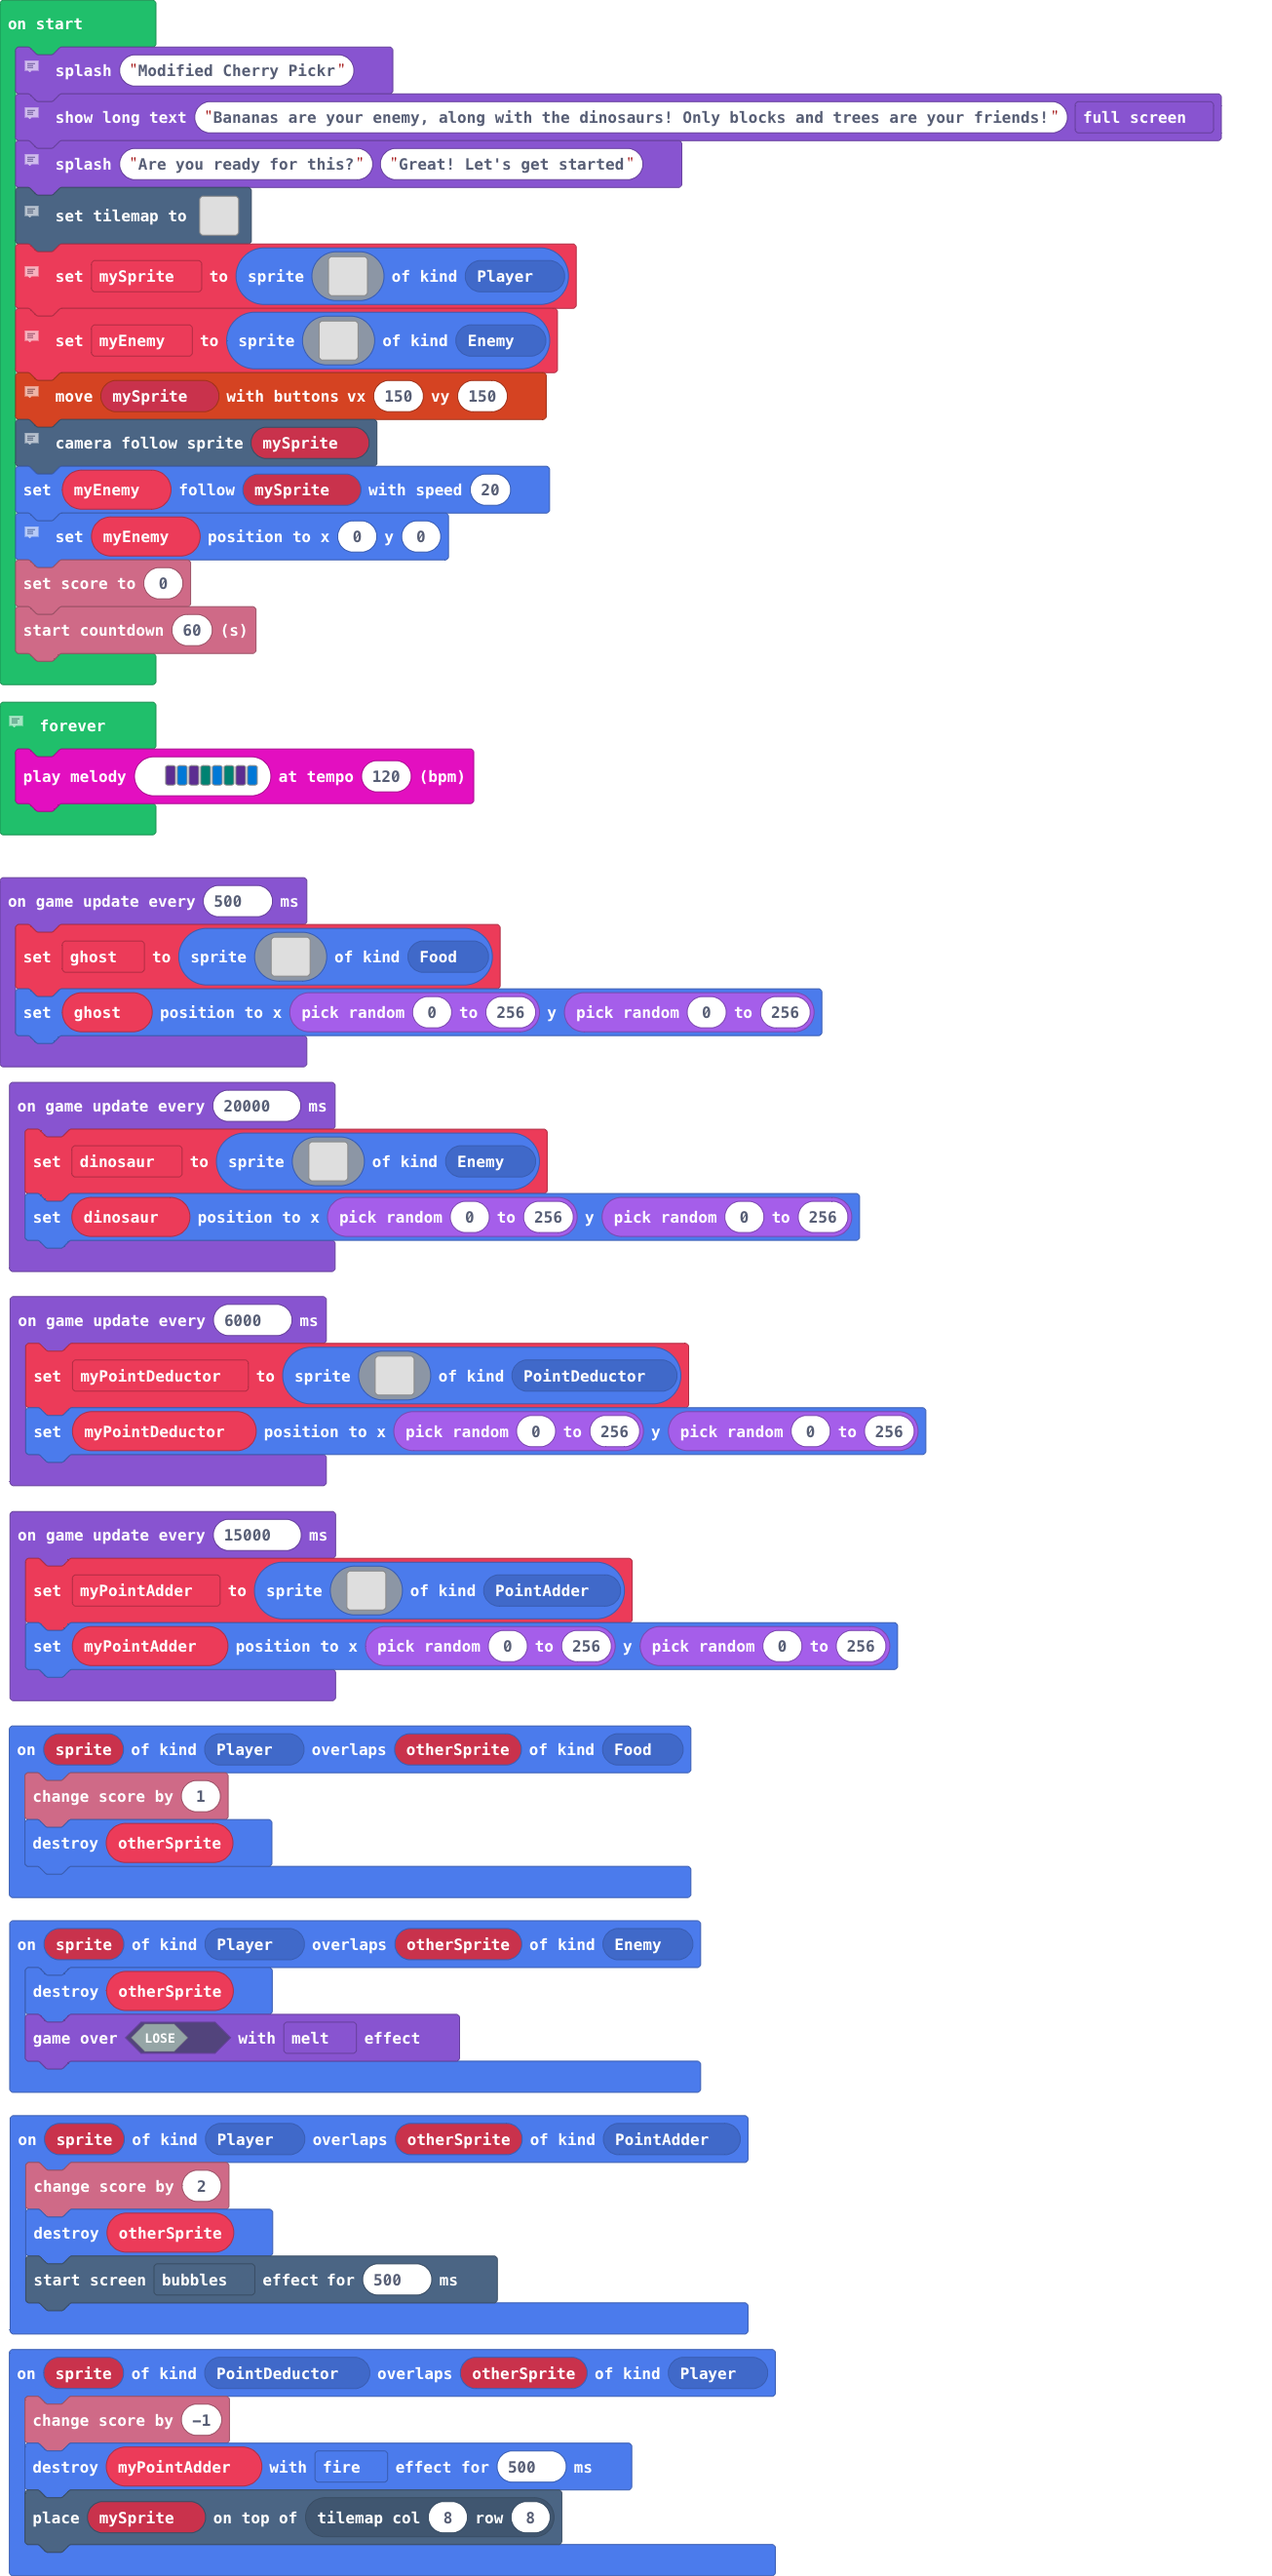
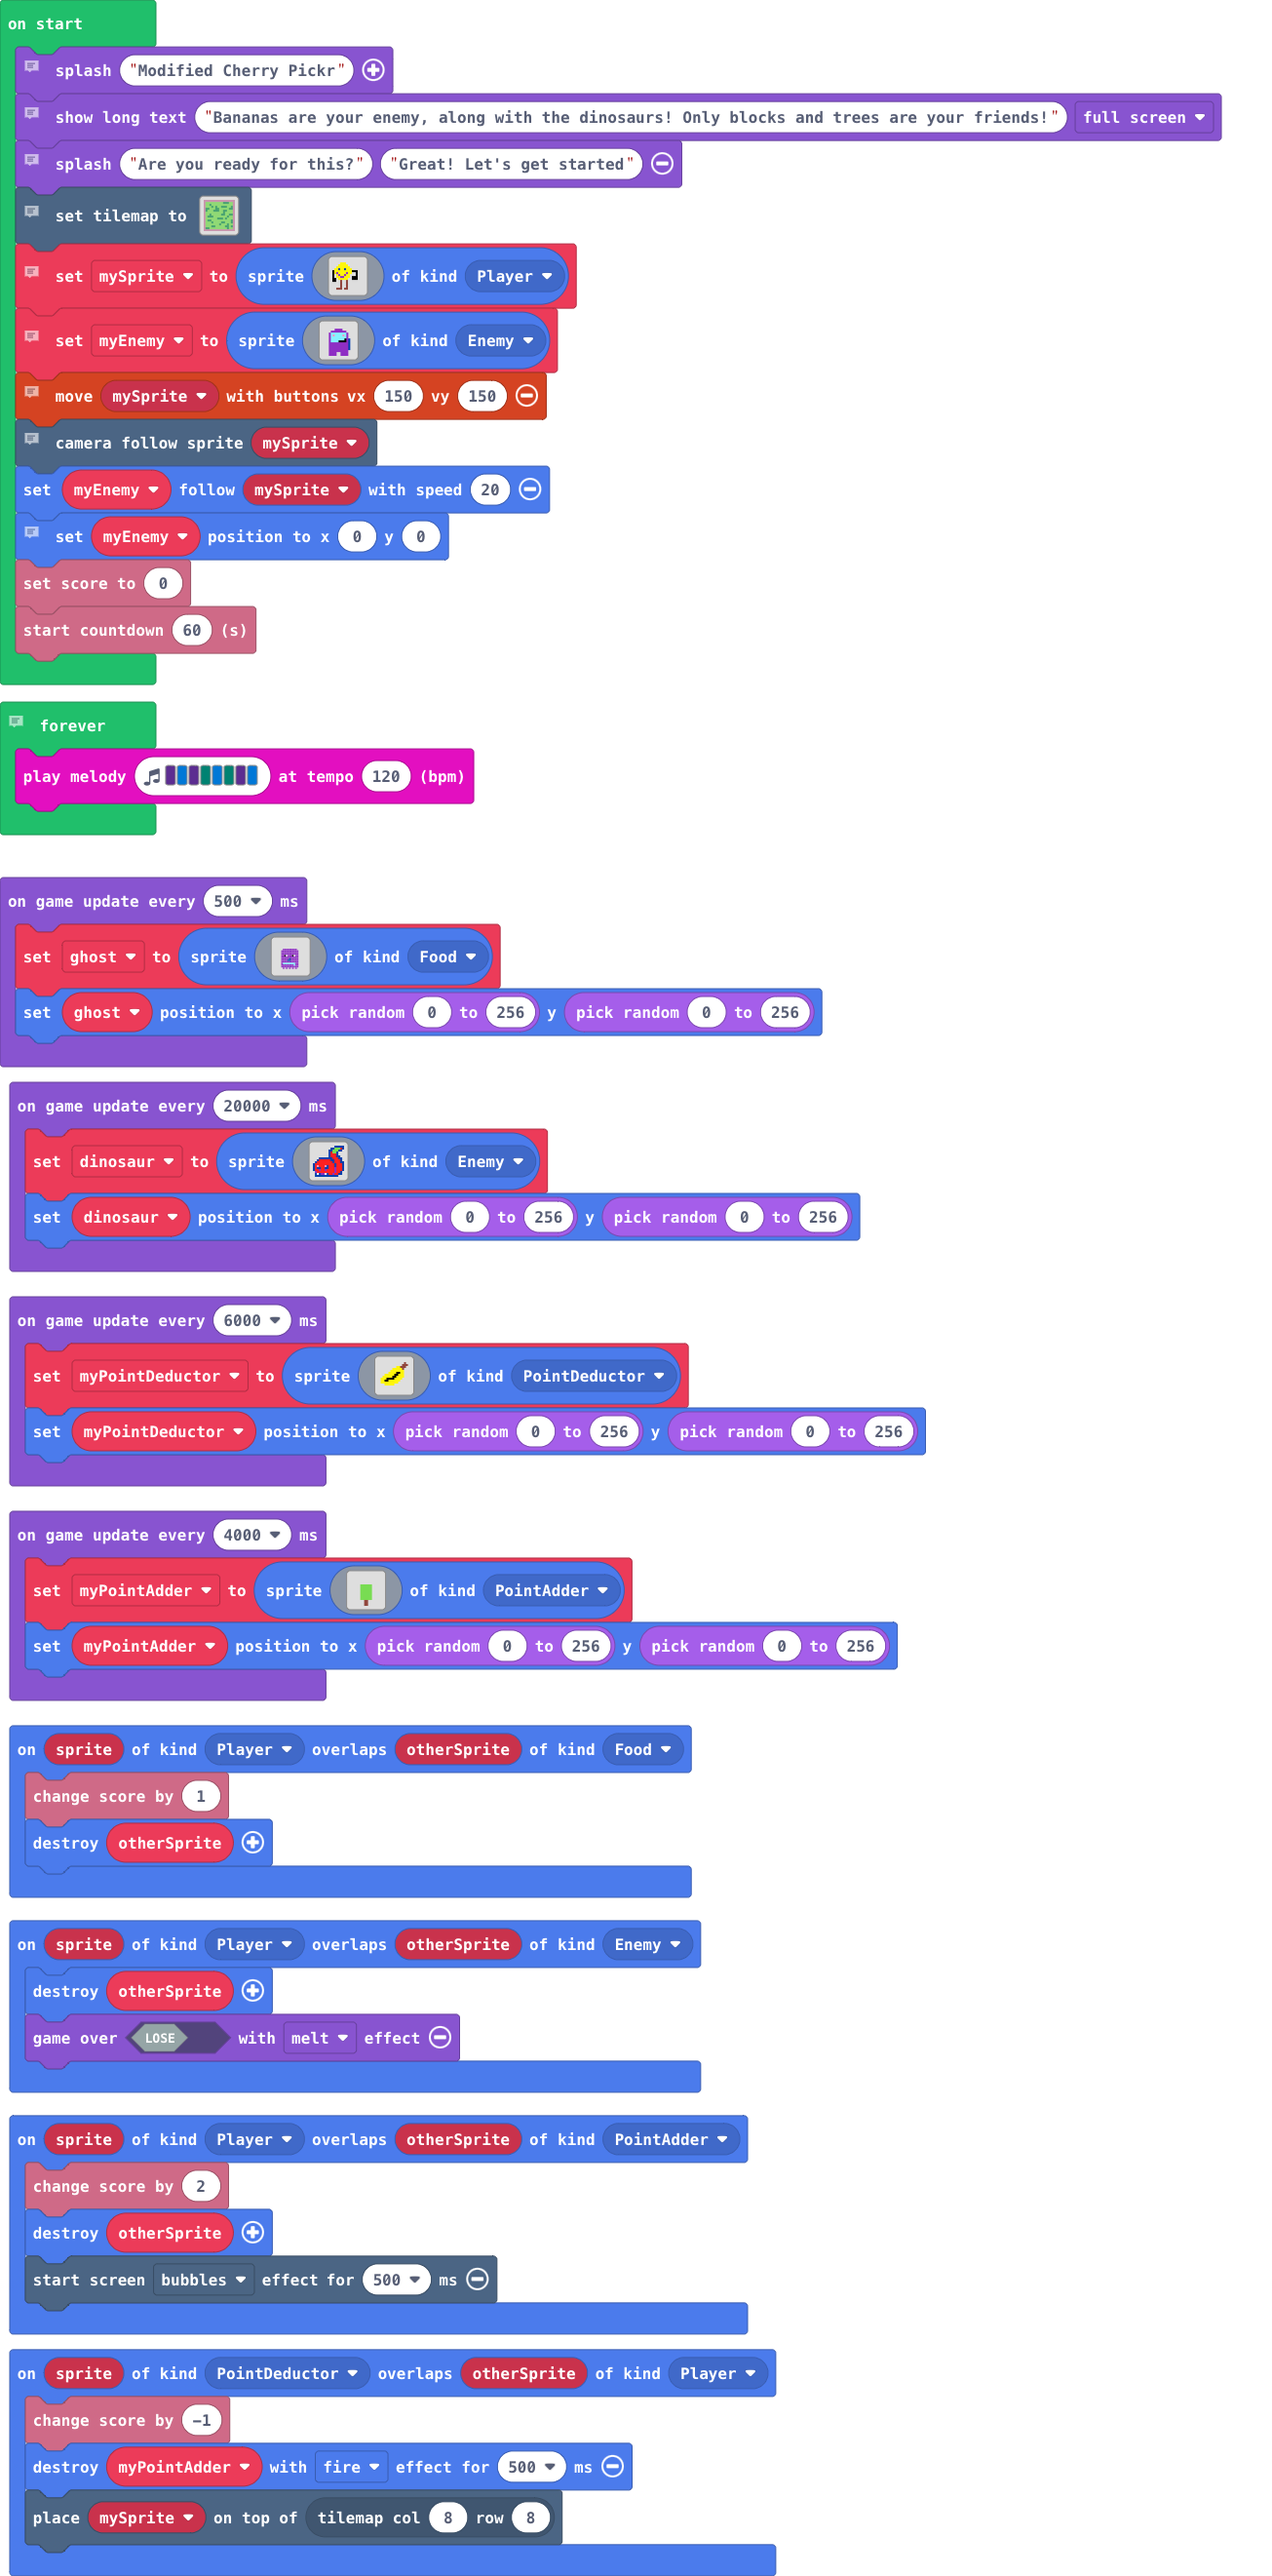
Final 2.0. Finally done 😎

diff --git a/main.ts b/main.ts
@@ -80,7 +80,7 @@ myEnemy.follow(mySprite, 20)
 myEnemy.setPosition(0, 0)
 info.setScore(0)
 info.startCountdown(60)
-game.onUpdateInterval(15000, function () {
+game.onUpdateInterval(4000, function () {
     myPointAdder = sprites.create(img`
         . . . . . . . . . . . . . . . . 
         . . . . . . . . . . . . . . . . 
